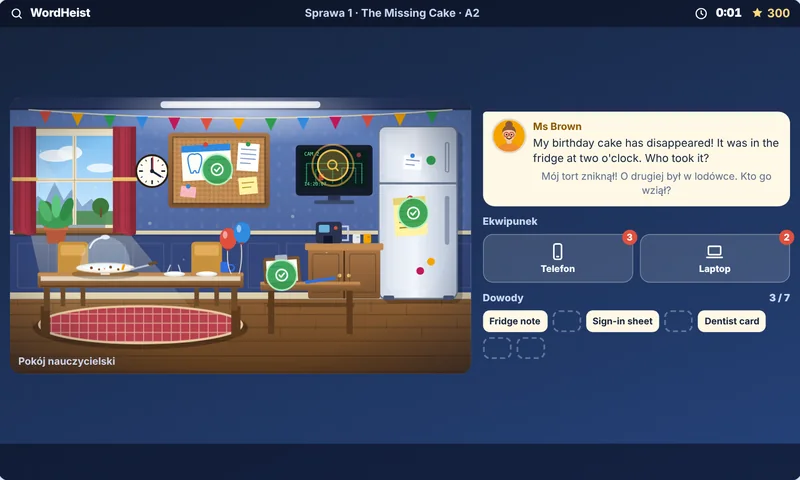
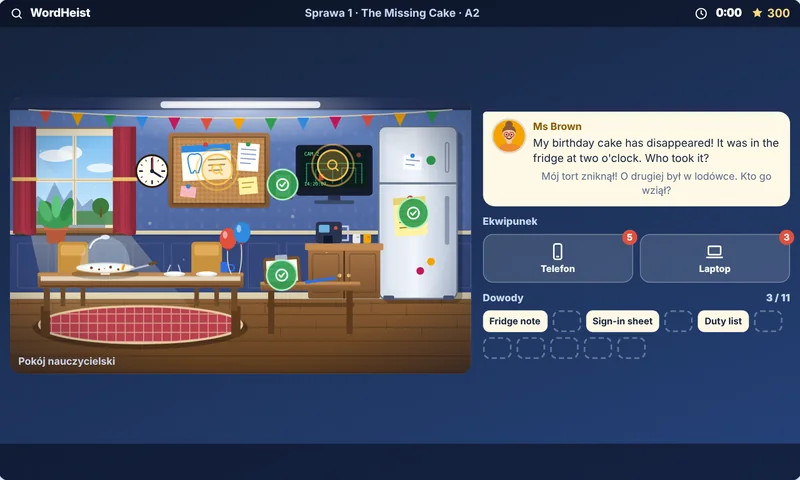
WordHeist: scenariusz 11 dowodów (grafik dyżurów, SMS-y z godzinami, poczta głosowa, e-mail o kluczu), przesłuchanie w 3 etapach z przyznaniem się Toma, nowe zakończenie, wzorcowy czas 10 min
Claude-Session: https://claude.ai/code/session_01MyUW9fQB8JttoV36Ji4mpt

diff --git a/index.html b/index.html
@@ -2548,7 +2548,7 @@ function helpHTML(){
     +'<h4>'+ic('peak')+'WordClimb</h4>'+hpFig('climb','Wspinacz na ścianie i cztery przyciski z odpowiedziami w grze WordClimb','WordClimb: wybierz poprawne tłumaczenie, a wspinacz zrobi krok w górę.')
     +'<ul><li>Trasa ma <b>12 kroków</b> i dwa obozy (po 4. i 8. kroku). Poprawna odpowiedź to krok w górę, a pomyłka to <b>poślizg</b>: uczeń nic nie traci, a słówko trafia do powtórek. Nie ma limitu czasu.</li><li><b>A1</b>: 3 odpowiedzi do wyboru. <b>A2</b>: 4 odpowiedzi. <b>B1</b>: 4 trudniejsze odpowiedzi (podobne formy) oraz zdania z luką.</li><li>Słówka w jednej trasie <b>nie powtarzają się</b>. Słówka z poślizgów pojawiają się u Ciebie w „Najtrudniejszych słówkach”.</li><li>Na koniec uczeń dostaje do 3 gwiazdek (3 = bez poślizgu) i punkty.</li></ul>'
     +'<h4>'+ic('search')+'WordHeist</h4>'+hpFig('heist','Pokój nauczycielski z tropami oraz telefon i laptop w ekwipunku w grze WordHeist','WordHeist: klikaj lupy w pokoju oraz telefon i laptop, żeby zebrać dowody po angielsku.')
-    +'<ul><li>Pierwsza sprawa, <b>The Missing Cake</b> (poziom A2), trwa 5–10 minut: zniknął tort nauczycielki i trzeba wskazać sprawcę.</li><li>Dowody leżą w pokoju (lodówka, kamera, lista obecności, tablica) oraz w <b>ekwipunku</b>: telefon pokazuje SMS-y, a laptop e-maile. Czerwona plakietka to liczba nieprzeczytanych wiadomości. Część wiadomości to mylne tropy.</li><li>Każdy dowód ma pytanie po angielsku. Błąd odejmuje punkty. Uczeń może użyć <b>podpowiedzi</b> lub <b>polskiego tłumaczenia</b> (też kosztuje podpowiedź).</li><li>Po zebraniu 4 dowodów otwiera się tablica: uczeń przesłuchuje podejrzanego (układa pytanie z rozsypanych słów), wybiera osobę i dwa dowody, które ją obciążają.</li><li>Słówka ze sprawy (np. <i>quarter to</i>, <i>half past</i>, <i>borrow</i>) trafiają do powtórek, a pomyłki widzisz w „Najtrudniejszych słówkach”.</li></ul>');
+    +'<ul><li>Pierwsza sprawa, <b>The Missing Cake</b> (poziom A2), trwa 8–12 minut: zniknął tort nauczycielki i trzeba wskazać sprawcę.</li><li>Dowody leżą w pokoju (lodówka, kamera, lista obecności, tablica, grafik dyżurów) oraz w <b>ekwipunku</b>: telefon pokazuje SMS-y, a laptop e-maile. Czerwona plakietka to liczba nieprzeczytanych wiadomości. Część wiadomości to mylne tropy.</li><li>Każdy dowód ma pytanie po angielsku. Błąd odejmuje punkty. Uczeń może użyć <b>podpowiedzi</b> lub <b>polskiego tłumaczenia</b> (też kosztuje podpowiedź).</li><li>Po zebraniu 6 z 11 dowodów otwiera się tablica: uczeń przesłuchuje Toma w trzech etapach (układa pytania z rozsypanych słów, a kolejne etapy wymagają nowych dowodów), wybiera osobę i dwa dowody, które ją obciążają.</li><li>Słówka ze sprawy (np. <i>quarter to</i>, <i>half past</i>, <i>borrow</i>) trafiają do powtórek, a pomyłki widzisz w „Najtrudniejszych słówkach”.</li></ul>');
   const s10=hpSec('punkty',10,'Punkty, rangi, rankingi i trofea',
     '<p>Punkty motywują uczniów do regularnej nauki. Każda gra liczy je trochę inaczej:</p><ul><li><b>WordCraft</b>: 10 pkt za poprawną odpowiedź, 100 za gwiazdkę poziomu, 150 za gwiazdkę w trybie Hard.</li><li><b>WordLinks</b>: do 300 pkt za łamigłówkę (sprint do 900). Im szybciej, tym więcej. Do rankingu liczy się najlepszy wynik dnia w każdym trybie.</li><li><b>WordElf</b>: do 300 (A1), 400 (A2) lub 500 (B1) pkt za całą grę, tym więcej, im szybciej.</li><li><b>WordClimb</b>: do 300 (A1), 400 (A2) lub 500 (B1) pkt za trasę. Liczą się odpowiedzi poprawne od razu i premia za szczyt bez poślizgów. Do rankingu liczy się najlepszy wynik dnia na każdym poziomie.</li><li><b>WordHeist</b>: do 300 pkt za sprawę: 100 za rozwiązanie, +80 bez błędu, +60 bez podpowiedzi, +60 za czas poniżej 6 minut. Do rankingu liczy się najlepszy wynik dnia w każdej sprawie.</li></ul>'
     +'<h4>Rangi</h4><p>Za sumę punktów uczeń awansuje na kolejne rangi (osobno w każdej grze i ogólnie):</p>'+hpRanks()
@@ -3191,26 +3191,35 @@ addEventListener('keydown',e=>{
 /* ===== WORDHEIST: sprawy detektywistyczne po angielsku ===== */
 let HS=null;
 const HSR=[[0,'Stażysta'],[500,'Detektyw'],[2000,'Inspektor'],[5000,'Komisarz'],[12000,'Szef Wydziału'],[25000,'Legenda Wydziału']];
-const HSCASE='missing-cake',HSPAR=360,HSMAX=300;
+const HSCASE='missing-cake',HSPAR=600,HSMAX=300;
 const hsPts=(err,hint,secs)=>100+(err<=0?80:0)+(hint<=0?60:0)+(secs<=HSPAR?60:0);
 const HSS=[
  {k:'tom',n:'Tom',r:'uczeń, 6B',c:'#2358d6',al:'Alibi: biblioteka'},
- {k:'lucy',n:'Lucy',r:'uczennica, 6B',c:'#c2185b',al:'Alibi: dentysta',ex:'I was at the dentist, look at my card.'},
- {k:'green',n:'Mr Green',r:'nauczyciel WF',c:'#00796b',al:'Alibi: sala gimnastyczna',ex:'I was in the gym with twenty students.'},
- {k:'ola',n:'Ola',r:'sprzątaczka',c:'#6a1b9a',al:'Alibi: zielony fartuch',ex:'I never wear a red jacket.'}];
-/* dowody: src = gdzie leży (scena: fridge/cam/sheet/board, ekwipunek: phone/laptop); q=null to mylny trop */
+ {k:'lucy',n:'Lucy',r:'uczennica, 6B',c:'#c2185b',al:'Alibi: dentysta',ex:'I was at the dentist, look at my card.',ev:4},
+ {k:'green',n:'Mr Green',r:'nauczyciel WF',c:'#00796b',al:'Alibi: sala gimnastyczna',ex:'I was in the gym with twenty students.',ev:5},
+ {k:'ola',n:'Ola',r:'sprzątaczka',c:'#6a1b9a',al:'Alibi: zielony fartuch',ex:'I was cleaning the canteen. I never wear a red jacket.',ev:9}];
+/* dowody: src = gdzie leży (scena: fridge/cam/sheet/board/rota, ekwipunek: phone/laptop); brak q = mylny trop */
 const HSI=[
  {id:1,src:'fridge',n:'Fridge note',s:'notatka',k:'note',t:"Happy birthday to me! The cake is in the fridge. Please don't touch it. I'm back at half past three.",pl:'Wszystkiego najlepszego dla mnie! Tort jest w lodówce. Proszę go nie ruszać. Wracam o wpół do czwartej.',q:'What time is Ms Brown back?',qp:'O której wraca pani Brown?',o:['At half past two','At half past three','At a quarter to three',"At three o'clock"],a:1,why:'half past three = 3:30 (wpół do czwartej).',w:['wpół do','half past'],nope:'Notatka mówi tylko, kiedy wróci pani Brown.'},
  {id:2,src:'cam',n:'Camera 2:20',s:'kamera',k:'cam',t:'2:20 p.m. A person in a red jacket goes into the room and comes out with a big box.',pl:'14:20. Osoba w czerwonej kurtce wchodzi do pokoju i wychodzi z dużym pudłem.',q:'What does the person wear and carry?',qp:'Co ma na sobie i niesie ta osoba?',o:['A red jacket and a big box','A red jacket and a small bag','A blue jacket and a big box','A green coat and a small box'],a:0,why:'red jacket = czerwona kurtka, big box = duże pudło.',w:['kurtka','jacket']},
  {id:3,src:'sheet',n:'Sign-in sheet',s:'lista obecności',k:'sheet',t:'Tom Baker? He arrived at a quarter to three.',pl:'Tom Baker? Przyszedł za kwadrans trzecia.',q:'When did Tom really arrive at the library?',qp:'Kiedy Tom naprawdę przyszedł do biblioteki?',o:["At two o'clock",'At a quarter past two','At a quarter to three','At a quarter to four'],a:2,why:'a quarter to three = 2:45 (za kwadrans trzecia). A quarter past two to 2:15.',w:['kwadrans do','quarter to']},
- {id:4,src:'phone',n:"Tom's SMS",s:'SMS Toma',k:'sms',f:'Tom → Lucy',t:"I was in the library from two o'clock!",pl:'Byłem w bibliotece od drugiej!',ctx:'Lista obecności: Tom Baker, a quarter to three.',q:'Is Tom telling the truth?',qp:'Czy Tom mówi prawdę?',o:["Yes, he was there at two o'clock",'No, he arrived at a quarter to three','Yes, he was there at half past three','We cannot say'],a:1,why:'Tom pisze, że był od 2:00, a lista obecności mówi 2:45. Skłamał.',w:['biblioteka','library'],nope:'To tylko wersja Toma. Potrzebujesz dowodu, który ją obala.'},
- {id:5,src:'board',n:'Dentist card',s:'karta dentysty',k:'card',t:'Lucy Adams – Dentist – Thursday, 2:00 p.m.',pl:'Lucy Adams – dentysta – czwartek, 14:00.',q:"Where was Lucy at two o'clock?",qp:'Gdzie była Lucy o drugiej?',o:['At the dentist','At the library','In the gym','At home'],a:0,why:'dentist = dentysta. Lucy ma alibi.',w:['dentysta','dentist'],nope:'Karta dentysty zdejmuje podejrzenie z Lucy, ale nic nie mówi o Tomie.'},
- {id:6,src:'phone',n:"Lucy's SMS",s:'SMS Lucy',k:'sms',f:'Lucy → Tom',t:"You can borrow my red jacket today, it's cold in the gym!",pl:'Możesz pożyczyć moją czerwoną kurtkę, w sali jest zimno!',q:"Who has Lucy's red jacket today?",qp:'Kto ma dziś czerwoną kurtkę Lucy?',o:['Tom','Lucy','Mr Green','Ola'],a:0,why:'borrow = pożyczyć. Lucy pisze do Toma, więc to on pożyczył kurtkę.',w:['pożyczać','borrow']},
- {id:7,src:'laptop',n:'Gym e-mail: 5A',s:'e-mail o sali',k:'mail',f:'School office',sub:'Gym booking for Thursday',t:'The gym is booked for class 5A on Thursday from 2:00 to 3:00 p.m. Please do not use it for other lessons.',pl:'Sala gimnastyczna jest zarezerwowana dla klasy 5A w czwartek od 14:00 do 15:00. Prosimy nie używać jej na inne lekcje.',q:'Who has the gym on Thursday at two o\'clock?',qp:'Kto ma salę gimnastyczną w czwartek o drugiej?',o:['Class 6B','Class 5A','Mr Green and Tom','Nobody'],a:1,why:'booked for class 5A = zarezerwowana dla 5A. Tom jest z 6B, więc kłamał o koszykówce.',w:['sala gimnastyczna','gym']},
- {id:8,src:'phone',n:'Mum SMS',s:'SMS od mamy',k:'sms',f:'Mum → Tom',t:"Don't forget your lunch box, Tom!",pl:'Nie zapomnij pudełka na lunch, Tom!',q:null},
- {id:9,src:'laptop',n:'Canteen e-mail',s:'jadłospis',k:'mail',f:'Canteen',sub:'Lunch menu for next week',t:'Soup on Monday, pizza on Tuesday, fish on Friday.',pl:'Zupa w poniedziałek, pizza we wtorek, ryba w piątek.',q:null}];
-const HSW=[['wpół do','half past'],['kwadrans do','quarter to'],['pożyczać','borrow'],['alibi','alibi'],['dowód','evidence'],['podejrzany','suspect']];
-const HSQ=["Where","were","you","at","two","o'clock?"],HSPROOF=[2,3,6,7],HSEV=HSI.filter(x=>x.q);
+ {id:4,src:'board',n:'Dentist card',s:'karta dentysty',k:'card',t:'Lucy Adams – Dentist – Thursday, 2:00 p.m.',pl:'Lucy Adams – dentysta – czwartek, 14:00.',q:"Where was Lucy at two o'clock?",qp:'Gdzie była Lucy o drugiej?',o:['At the dentist','At the library','In the gym','At home'],a:0,why:'dentist = dentysta. Lucy ma alibi.',w:['dentysta','dentist'],nope:'Karta dentysty zdejmuje podejrzenie z Lucy, ale nic nie mówi o Tomie.'},
+ {id:5,src:'rota',n:'Duty list',s:'grafik dyżurów',k:'rota',t:'Thursday, 2:00 p.m. – Mr Green – gym, class 5A.',pl:'Czwartek, 14:00 – pan Green – sala gimnastyczna, klasa 5A.',q:"Where is Mr Green at two o'clock?",qp:'Gdzie jest pan Green o drugiej?',o:['In the gym','In the library','In the canteen','At the dentist'],a:0,why:'gym = sala gimnastyczna. Pan Green ma alibi.',w:['sala gimnastyczna','gym'],nope:'Grafik zdejmuje podejrzenie z pana Greena, ale nic nie mówi o Tomie.'},
+ {id:6,src:'phone',n:"Tom's SMS",s:'SMS Toma',k:'sms',f:'Tom → Lucy',tm:'4:10 p.m.',t:"I was in the library from two o'clock!",pl:'Byłem w bibliotece od drugiej!',ctx:'Lista obecności: Tom Baker, a quarter to three.',q:'Is Tom telling the truth?',qp:'Czy Tom mówi prawdę?',o:["Yes, he was there at two o'clock",'No, he arrived at a quarter to three','Yes, he was there at half past three','We cannot say'],a:1,why:'Tom pisze, że był od 2:00, a lista obecności mówi 2:45. Skłamał.',w:['biblioteka','library'],nope:'To tylko wersja Toma. Potrzebujesz dowodu, który ją obala.'},
+ {id:7,src:'phone',n:"Lucy's SMS",s:'SMS Lucy',k:'sms',f:'Lucy → Tom',tm:'9:05 a.m.',t:"You can borrow my red jacket today, it's cold in the gym!",pl:'Możesz pożyczyć moją czerwoną kurtkę, w sali jest zimno!',q:"Who has Lucy's red jacket today?",qp:'Kto ma dziś czerwoną kurtkę Lucy?',o:['Tom','Lucy','Mr Green','Ola'],a:0,why:'borrow = pożyczyć. Lucy pisze do Toma, więc to on pożyczył kurtkę.',w:['pożyczać','borrow']},
+ {id:8,src:'phone',n:"Tom's plan",s:'SMS Toma do Bena',k:'sms',f:'Tom → Ben',tm:'2:05 p.m.',t:"Meet me in the art room at half past three. I have a surprise for Ms Brown!",pl:'Spotkajmy się w sali plastycznej o wpół do czwartej. Mam niespodziankę dla pani Brown!',q:'Where does Tom want to meet Ben?',qp:'Gdzie Tom chce się spotkać z Benem?',o:['In the art room','In the library','In the gym','In the canteen'],a:0,why:'art room = sala plastyczna. Tom szykuje niespodziankę dla pani Brown.',w:['sala plastyczna','art room']},
+ {id:9,src:'phone',n:"Ola's voicemail",s:'poczta głosowa Oli',k:'voice',f:'Ola → Office',tm:'3:00 p.m.',t:"I cleaned the canteen from two to three o'clock. The floor was very wet!",pl:'Sprzątałam stołówkę od drugiej do trzeciej. Podłoga była bardzo mokra!',q:'What did Ola do from two to three?',qp:'Co robiła Ola od drugiej do trzeciej?',o:['She cleaned the canteen','She cooked lunch','She watched the cake','She ate in the gym'],a:0,why:'cleaned the canteen = sprzątała stołówkę. Ola ma alibi.',w:['sprzątać','clean'],nope:'Ola była w stołówce, więc to nie ona. Ta wiadomość nie obciąża Toma.'},
+ {id:10,src:'laptop',n:'Gym e-mail: 5A',s:'e-mail o sali',k:'mail',f:'School office',sub:'Gym booking for Thursday',t:'The gym is booked for class 5A on Thursday from 2:00 to 3:00 p.m. Please do not use it for other lessons.',pl:'Sala gimnastyczna jest zarezerwowana dla klasy 5A w czwartek od 14:00 do 15:00. Prosimy nie używać jej na inne lekcje.',q:'Who has the gym on Thursday at two o\'clock?',qp:'Kto ma salę gimnastyczną w czwartek o drugiej?',o:['Class 6B','Class 5A','Mr Green and Tom','Nobody'],a:1,why:'booked for class 5A = zarezerwowana dla 5A. Tom jest z 6B, więc kłamał o koszykówce.',w:['sala gimnastyczna','gym']},
+ {id:11,src:'laptop',n:'Art room key',s:'e-mail o kluczu',k:'mail',f:'Caretaker',sub:'Art room key',t:'Tom Baker took the art room key at ten past two on Thursday. Please bring it back.',pl:'Tom Baker wziął klucz do sali plastycznej w czwartek o 14:10. Prosimy o zwrot.',q:'Who took the art room key?',qp:'Kto wziął klucz do sali plastycznej?',o:['Tom Baker','Lucy Adams','Mr Green','Ola'],a:0,why:'took the key = wziął klucz. Tom miał klucz do sali, w której stoi tort.',w:['klucz','key']},
+ {id:12,src:'phone',n:'Mum SMS',s:'SMS od mamy',k:'sms',f:'Mum → Tom',tm:'12:30 p.m.',t:"Don't forget your lunch box, Tom!",pl:'Nie zapomnij pudełka na lunch, Tom!',q:null},
+ {id:13,src:'laptop',n:'Canteen e-mail',s:'jadłospis',k:'mail',f:'Canteen',sub:'Lunch menu for next week',t:'Soup on Monday, pizza on Tuesday, fish on Friday.',pl:'Zupa w poniedziałek, pizza we wtorek, ryba w piątek.',q:null}];
+const HSW=[['wpół do','half past'],['kwadrans do','quarter to'],['pożyczać','borrow'],['alibi','alibi'],['dowód','evidence'],['podejrzany','suspect'],['klucz','key'],['sala plastyczna','art room'],['sprzątać','clean']];
+/* przesłuchanie: 3 etapy, każdy to pytanie z rozsypanych słów; need = dowody potrzebne do etapu */
+const HSQS=[
+ {w:["Where","were","you","at","two","o'clock?"],need:[],r:"I was in the library."},
+ {w:["Why","did","you","arrive","at","a","quarter","to","three?"],need:[3],r:"OK, I was in the gym. I played basketball."},
+ {w:["Why","do","you","have","the","art","room","key?"],need:[10,11],r:"OK, OK! I took the cake. It was a surprise for Ms Brown!"}];
+const HSPROOF=[2,3,7,8,10,11],HSEV=HSI.filter(x=>x.q);
 const HSAV={
  tom:{bg:'#2358d6',skin:'#f1c7a0',top:'#3f7de0',hair:'<path d="M13.5 20c-1-9 5-13 10.5-13s11.5 4 10.5 13c-2-3-4-5-6-5.5-3 2-8 2-10 0-2 .5-3.5 2.5-5 5.5z" fill="#5a3a1e"/><path d="M19 8l2-3 2 3M26 8l3-2-.5 3.5" stroke="#5a3a1e" stroke-width="2" fill="none" stroke-linecap="round"/>'},
  lucy:{bg:'#c2185b',skin:'#f6d0b0',top:'#f48fb1',back:'<path d="M12 20c0-9 5-13 12-13s12 4 12 13v19H12z" fill="#2b1a14"/>',hair:'<path d="M14 19c2-7 7-9 10-9s8 2 10 9c-3-3-6-4-10-4s-7 1-10 4z" fill="#2b1a14"/>'},
@@ -3242,30 +3251,34 @@ function hsHint(){
   if(!HS.go||HS.over)return;
   if(HS.v==='item'){const it=hsIt(HS.cur);if(!it||!it.q||HS.done[it.id])return;const h=HS.hid[it.id]||(HS.hid[it.id]=[]);const c=it.o.map((_,k)=>k).filter(k=>k!==it.a&&!h.includes(k));if(c.length<2)return;h.push(elShuf(c)[0]);HS.hint++;HS.msg='Jedna zła odpowiedź zniknęła.'}
   else if(HS.v==='scene'){const n=HSEV.find(x=>!HS.done[x.id]);if(!n)return;HS.glow=n.src;HS.hint++;HS.msg='Zajrzyj tam, gdzie świeci.'}
-  else if(HS.v==='board'){HS.hint++;HS.msg=HS.interr?'Szukaj dowodów na kurtkę, kamerę, bibliotekę i salę.':'Najpierw przesłuchaj podejrzanego.'}
+  else if(HS.v==='board'){HS.hint++;HS.msg=HS.interr?'Szukaj dowodów na kurtkę, kamerę, bibliotekę, salę i klucz.':'Najpierw przesłuchaj podejrzanego.'}
   else return;
   renderHeist()
 }
-function hsBoard(){if(!HS.go||HS.over||hsSolved()<4)return;HS.v='board';HS.msg='';HS.glow='';renderHeist()}
+function hsBoard(){if(!HS.go||HS.over||hsSolved()<6)return;HS.v='board';HS.msg='';HS.glow='';renderHeist()}
 function hsSus(i){if(HS.v!=='board')return;HS.sus=HS.sus===i?-1:i;renderHeist()}
 function hsSel(id){
   if(HS.v!=='board')return;const i=HS.sel.indexOf(id);
   if(i>=0)HS.sel.splice(i,1);else if(HS.sel.length<2)HS.sel.push(id);else{HS.msg='Wybierz tylko 2 dowody. Odznacz jeden.'}
   renderHeist()
 }
-function hsAsk(){if(!HS.go||HS.over)return;HS.ask={w:elShuf(HSQ.map((_,i)=>i)),pick:[]};HS.v='ask';HS.msg='';renderHeist()}
+function hsAsk(){
+  if(!HS.go||HS.over)return;const n=HS.interr,q=HSQS[Math.min(n,2)];
+  if(n<3){const m=q.need.filter(id=>!HS.done[id]);if(m.length){HS.msg='Najpierw zbierz dowód: '+m.map(id=>hsIt(id).n).join(', ')+'.';return renderHeist()}}
+  HS.ask={s:n,w:elShuf(q.w.map((_,i)=>i)),pick:[]};HS.v='ask';HS.msg='';renderHeist()
+}
 function hsAskTap(i){
-  const a=HS.ask;if(HS.v!=='ask'||!a||HS.interr||a.pick.includes(i))return;
-  if(i===a.pick.length){a.pick.push(i);cnFx('ok');if(a.pick.length===HSQ.length){HS.interr=1;HS.msg='Tom odpowiada…'}}
+  const a=HS.ask,q=a&&HSQS[Math.min(a.s,2)];if(HS.v!=='ask'||!a||a.s!==HS.interr||!q||a.pick.length>=q.w.length||a.pick.includes(i))return;
+  if(i===a.pick.length){a.pick.push(i);cnFx('ok');if(a.pick.length===q.w.length){HS.interr++;HS.msg=HS.interr>=3?'Tom się przyznał!':'Tom zmienił wersję. Zbierz kolejne dowody.'}}
   else{HS.err++;HS.msg='Zły szyk. Zacznij od słowa pytającego.';cnFx('bad')}
   renderHeist()
 }
 function hsAccuse(){
   if(!HS.go||HS.over||HS.v!=='board')return;
-  if(!HS.interr){HS.msg='Najpierw przesłuchaj podejrzanego.';return renderHeist()}
+  if(HS.interr<3){HS.msg='Najpierw przesłuchaj Toma do końca ('+HS.interr+'/3).';return renderHeist()}
   if(HS.sus<0||HS.sel.length!==2){HS.msg='Wybierz podejrzanego i 2 dowody.';return renderHeist()}
   const s=HSS[HS.sus];
-  if(s.k!=='tom'){HS.err++;HS.msg=s.n+': „'+s.ex+'” To nie ten podejrzany.';HS.sus=-1;HS.sel=[];cnFx('bad');return renderHeist()}
+  if(s.k!=='tom'){HS.err++;HS.msg=s.n+': „'+s.ex+'” To nie ten podejrzany. '+(HS.done[s.ev]?'Sprawdź dowód: '+hsIt(s.ev).n+'.':'Poszukaj dowodu, który to potwierdza.');HS.sus=-1;HS.sel=[];cnFx('bad');return renderHeist()}
   const bad=HS.sel.find(id=>!HSPROOF.includes(id));
   if(bad){HS.err++;HS.msg=hsIt(bad).nope;HS.sel=[];cnFx('bad');return renderHeist()}
   hsFinish()
@@ -3360,8 +3373,8 @@ ${Array.from({length:12},(_,i)=>`<path d="M378 ${70+i*4}h88" stroke="#000" strok
 <rect x="384" y="236" width="40" height="4" rx="2" fill="#2f6fe0" transform="rotate(-8 404 238)"/></g>
 <rect width="600" height="360" fill="url(#hsg-vg)"/>
 ${Array.from({length:9},(_,i)=>`<circle cx="${40+i*62+(i%3)*9}" cy="${70+((i*47)%150)}" r="${1.2+(i%3)*.5}" fill="#fff9d6" opacity=".35"/>`).join('')}
-</svg>`;
-const HSSP={fridge:[87.5,42,'lodówka'],cam:[70,24.5,'kamera'],sheet:[59,64.5,'lista obecności'],board:[45,26,'tablica ogłoszeń']};
+<g class="hs-clip"><rect x="343" y="97" width="25" height="35" rx="2" fill="#8a5a3a" stroke="#5a3a1e" stroke-width="1"/><rect x="346" y="101" width="19" height="28" fill="#fffdf4"/><rect x="351" y="94" width="9" height="6" rx="1.5" fill="#9aa5b8" stroke="#5b6b8a" stroke-width=".6"/><path d="M349 108h13M349 113h13M349 118h9M349 123h12" stroke="#7a8aa6" stroke-width="1.2" stroke-linecap="round"/><circle cx="347.5" cy="108" r="1.2" fill="#2e9d4f"/></g></svg>`;
+const HSSP={fridge:[87.5,42,'lodówka'],cam:[70,24.5,'kamera'],sheet:[59,64.5,'lista obecności'],board:[45,26,'tablica ogłoszeń'],rota:[59.2,31.5,'grafik dyżurów']};
 function hsScene(){
   const sp=Object.keys(HSSP).map(k=>{const it=HSI.find(x=>x.src===k),d=HS.done[it.id];return'<button class="hs-spot'+(d?' ok':'')+(HS.glow===k?' glow':'')+'" style="left:'+HSSP[k][0]+'%;top:'+HSSP[k][1]+'%" '+(d?'':'')+'onclick="hsOpen('+it.id+')" aria-label="'+HSSP[k][2]+(d?' (zbadane)':'')+'">'+ic(d?'check':'search')+'</button>'}).join('');
   const unread=a=>HSI.filter(x=>x.src===a&&!HS.seen[x.id]).length;
@@ -3374,7 +3387,9 @@ function hsDoc(it){
   if(it.k==='cam')return'<div class="hs-cam"><span>● REC · CAM 2 · staff room</span><p>'+esc(it.t)+'</p></div>';
   if(it.k==='card')return'<div class="hs-note card">'+esc(it.t)+'</div>';
   if(it.k==='sheet')return'<div class="hs-sheet"><b>Library sign-in sheet</b><table><tr><th>NAME</th><th>ARRIVED</th></tr><tr><td>Mia Clark</td><td>ten past two</td></tr><tr class="hl"><td>Tom Baker</td><td>a quarter to three</td></tr><tr><td>Ben Hall</td><td>half past three</td></tr></table><button onclick="hsSay()">'+ic('volume')+'Posłuchaj bibliotekarki</button><p>„'+esc(it.t)+'”</p></div>';
-  if(it.k==='sms')return'<div class="hs-sms"><small>'+esc(it.f)+'</small><div>'+esc(it.t)+'</div></div>';
+  if(it.k==='rota')return'<div class="hs-sheet"><b>Teachers\' duty list</b><p>'+esc(it.t)+'</p></div>';
+  if(it.k==='voice')return'<div class="hs-sms"><small>'+ic('volume')+' '+esc(it.f)+' · '+esc(it.tm)+'</small><div>'+esc(it.t)+'</div><br><button class="hs-link" onclick="hsSay()">'+ic('volume')+'Posłuchaj</button></div>';
+  if(it.k==='sms')return'<div class="hs-sms"><small>'+esc(it.f)+(it.tm?' · '+esc(it.tm):'')+'</small><div>'+esc(it.t)+'</div></div>';
   return'<div class="hs-mail"><small>From: '+esc(it.f)+'</small><b>'+esc(it.sub)+'</b><p>'+esc(it.t)+'</p></div>'
 }
 function hsItem(){
@@ -3392,16 +3407,18 @@ function hsAppH(){
 function hsBoardH(){
   const sus=HSS.map((s,i)=>'<button class="hs-sus'+(HS.sus===i?' on':'')+'" onclick="hsSus('+i+')"><span>'+hsAv(s.k,36)+'</span><b>'+s.n+'</b><small>'+s.r+'</small><em>'+s.al+'</em></button>').join('');
   const chips=HSEV.filter(x=>HS.done[x.id]).map(x=>'<button class="hs-ch'+(HS.sel.includes(x.id)?' on':'')+'" onclick="hsSel('+x.id+')">'+(HS.sel.includes(x.id)?ic('check'):'')+esc(x.n)+'</button>').join('');
-  return'<p class="hs-lead">Kto wziął tort? Wybierz podejrzanego i dwa dowody, które go obciążają.</p><div class="hs-suss">'+sus+'</div><h5>Dowody przeciw'+(HS.sus>=0?': '+HSS[HS.sus].n:'')+' (wybierz 2)</h5><div class="hs-chs">'+chips+'</div><p class="hs-st">'+ic(HS.interr?'check':'alert',HS.interr?'ok':'warn')+(HS.interr?'Podejrzany przesłuchany.':'Najpierw przesłuchaj podejrzanego (przycisk poniżej).')+'</p>'
+  return'<p class="hs-lead">Kto wziął tort? Wybierz podejrzanego i dwa dowody, które go obciążają.</p><div class="hs-suss">'+sus+'</div><h5>Dowody przeciw'+(HS.sus>=0?': '+HSS[HS.sus].n:'')+' (wybierz 2)</h5><div class="hs-chs">'+chips+'</div><p class="hs-st">'+ic(HS.interr>=3?'check':'alert',HS.interr>=3?'ok':'warn')+(HS.interr>=3?'Tom przesłuchany do końca.':'Przesłuchanie Toma: '+HS.interr+'/3 (przycisk poniżej).')+'</p>'
 }
 function hsAskH(){
-  const a=HS.ask,sent=a.pick.map(i=>HSQ[i]).join(' ');
-  let h='<p class="hs-lead">Ułóż pytanie do Toma z rozsypanych słów.</p><div class="hs-sent">'+esc(sent)+'</div><div class="hs-words">'+a.w.map(i=>'<button '+(a.pick.includes(i)||HS.interr?'disabled ':'')+'onclick="hsAskTap('+i+')">'+esc(HSQ[i])+'</button>').join('')+'</div>';
-  if(HS.interr)h+='<div class="hs-dlg"><p>'+hsAv('tom',30)+'<span><b>Tom:</b> I was in the library.</span></p><p class="you">Sign-in sheet: a quarter to three…</p><p>'+hsAv('tom',30)+'<span><b>Tom:</b> OK, I was in the gym. I played basketball.</span></p><small>Tom zmienił wersję. Wróć na tablicę i wybierz dowody, które obalają obie.</small></div>';
+  const a=HS.ask,q=HSQS[Math.min(a.s,2)],full=a.pick.length>=q.w.length,sent=a.pick.map(i=>q.w[i]).join(' ');
+  let h='<p class="hs-lead">'+(full&&HS.interr>=3?'Przesłuchanie zakończone.':'Ułóż pytanie do Toma z rozsypanych słów ('+(a.s+1)+'/3).')+'</p>';
+  if(!full)h+='<div class="hs-sent">'+esc(sent)+'</div><div class="hs-words">'+a.w.map(i=>'<button '+(a.pick.includes(i)?'disabled ':'')+'onclick="hsAskTap('+i+')">'+esc(q.w[i])+'</button>').join('')+'</div>';
+  h+='<div class="hs-dlg">'+HSQS.slice(0,HS.interr).map(x=>'<p class="you">'+esc(x.w.join(' '))+'</p><p>'+hsAv('tom',30)+'<span><b>Tom:</b> '+esc(x.r)+'</span></p>').join('')+'</div>';
+  if(HS.interr&&HS.interr<3)h+='<small class="hs-ctx">Tom zmienił wersję. Wróć na tablicę i zbierz dowody, które obalają obie.</small>';
   return h
 }
 function hsWin(){
-  return'<h3>Sprawa rozwiązana!</h3><p class="hs-fin">To był Tom. Chciał udekorować tort jako niespodziankę. Tort stoi w sali plastycznej z napisem „Happy Birthday, Ms Brown!”.</p><div class="hs-stars">'+[1,2,3].map(i=>ic('star','f '+(i<=HS.stars?'pt':'dim'))).join('')+'</div><div class="hs-tiles"><div><b>'+hsFmt(HS.secs)+'</b><small>czas (wzorcowy 6:00)</small></div><div><b>'+HS.err+'</b><small>błędy</small></div><div><b>'+HS.hint+'</b><small>podpowiedzi</small></div></div><div class="hs-pts">'+ic('star','f pt')+'<span>Punkty</span><b>'+HS.pts+'</b></div><small class="hs-gain">'+hsAwardHtml()+'</small><div class="hs-words2"><b>Słówka ze sprawy (trafiły do powtórek):</b>'+HSW.map(w=>'<span>'+esc(w[1])+' = '+esc(w[0])+'</span>').join('')+'</div>'
+  return'<h3>Sprawa rozwiązana!</h3><p class="hs-fin">To był Tom. Chciał udekorować tort jako niespodziankę. Tort stoi w sali plastycznej z napisem „Happy Birthday, Ms Brown!”.</p><div class="hs-dlg"><p>'+hsAv('tom',30)+'<span><b>Tom:</b> I took the cake. It was a surprise for your birthday!</span></p></div><div class="hs-sms"><small>Ms Brown → Ty</small><div>Thank you, detective! The cake is in the art room. Come and have a piece!</div></div><div class="hs-stars">'+[1,2,3].map(i=>ic('star','f '+(i<=HS.stars?'pt':'dim'))).join('')+'</div><div class="hs-tiles"><div><b>'+hsFmt(HS.secs)+'</b><small>czas (wzorcowy 10:00)</small></div><div><b>'+HS.err+'</b><small>błędy</small></div><div><b>'+HS.hint+'</b><small>podpowiedzi</small></div></div><div class="hs-pts">'+ic('star','f pt')+'<span>Punkty</span><b>'+HS.pts+'</b></div><small class="hs-gain">'+hsAwardHtml()+'</small><div class="hs-words2"><b>Słówka ze sprawy (trafiły do powtórek):</b>'+HSW.map(w=>'<span>'+esc(w[1])+' = '+esc(w[0])+'</span>').join('')+'</div>'
 }
 function renderHeist(){
   const root=$('v-heist');if(!root)return;if(!HS)hsNew();
@@ -3409,7 +3426,7 @@ function renderHeist(){
   const head='<div class="cn-top"><span></span><button class="cn-snd" onclick="hsSnd()" aria-label="Dźwięk" title="Dźwięk">'+ic(snd?'volume':'mute')+'</button></div>';
   const hud='<div class="gs-hud"><span class="gs-t">'+ic('search')+'WordHeist</span><span class="gs-m">Sprawa 1 · The Missing Cake · A2</span><span class="gs-s">'+ic('clock')+'<b id="hs-time">'+hsFmt(sec)+'</b><i title="Tyle punktów dostaniesz, jeśli skończysz teraz. Maleje z błędami, podpowiedziami i czasem.">'+ic('star','f pt')+'<span id="hs-pts">'+est+'</span></i></span></div>';
   let ov='',body='';
-  if(!HS.go)ov='<div class="hs-ov mid"><div class="hs-bub big">'+hsAv('brown',52)+'<div><b>Ms Brown</b>My birthday cake has disappeared! It was in the fridge at two o\'clock. Who took it?<small>Mój tort urodzinowy zniknął! O drugiej był w lodówce. Kto go wziął?</small></div></div><p>Przeszukaj pokój nauczycielski, telefon i laptop. Czytaj po angielsku, rozwiązuj zagadki, przesłuchaj podejrzanego i wskaż sprawcę. Błąd nie kończy gry, ale odejmuje punkty. Wzorcowy czas: 6 minut.</p><button class="hs-go" onclick="hsStart()">Zacznij sprawę</button></div>';
+  if(!HS.go)ov='<div class="hs-ov mid"><div class="hs-bub big">'+hsAv('brown',52)+'<div><b>Ms Brown</b>My birthday cake has disappeared! It was in the fridge at two o\'clock. Who took it?<small>Mój tort urodzinowy zniknął! O drugiej był w lodówce. Kto go wziął?</small></div></div><p>Przeszukaj pokój nauczycielski, telefon i laptop. Czytaj po angielsku, rozwiązuj zagadki, przesłuchaj podejrzanego i wskaż sprawcę. Błąd nie kończy gry, ale odejmuje punkty. Wzorcowy czas: 10 minut.</p><button class="hs-go" onclick="hsStart()">Zacznij sprawę</button></div>';
   else{
     body=hsScene();
     if(v==='item')ov='<div class="hs-ov">'+hsItem()+'</div>';
@@ -3422,9 +3439,9 @@ function renderHeist(){
   let bar;
   if(!HS.go)bar='';
   else if(v==='win')bar='<button class="pri" onclick="hsNewR()">Zagraj jeszcze raz</button>';
-  else if(sc)bar='<button onclick="hsHint()" '+(canHint?'':'disabled ')+'>'+ic('bulb')+'Podpowiedź</button><button class="pri" onclick="hsBoard()" '+(hsSolved()>=4?'':'disabled ')+'>'+(hsSolved()>=4?'Tablica dowodów':'Dowody '+hsSolved()+'/4')+'</button>';
+  else if(sc)bar='<button onclick="hsHint()" '+(canHint?'':'disabled ')+'>'+ic('bulb')+'Podpowiedź</button><button class="pri" onclick="hsBoard()" '+(hsSolved()>=6?'':'disabled ')+'>'+(hsSolved()>=6?'Tablica dowodów':'Dowody '+hsSolved()+'/6')+'</button>';
   else if(v==='item')bar='<button onclick="hsHint()" '+(canHint?'':'disabled ')+'>'+ic('bulb')+'Podpowiedź</button><button '+(it&&HS.done[it.id]||it&&!it.q?'class="pri" ':'')+'onclick="hsBack()">'+(it&&(HS.done[it.id]||!it.q)?'Dalej':'Zamknij')+'</button>';
-  else if(v==='board')bar='<button onclick="hsAsk()">Przesłuchaj Toma</button><button class="pri" onclick="hsAccuse()">Oskarż'+(HS.sus>=0?': '+HSS[HS.sus].n:'')+'</button><button onclick="hsHint()">'+ic('bulb')+'</button><button onclick="hsBack()">Wróć</button>';
+  else if(v==='board')bar='<button onclick="hsAsk()">Przesłuchaj Toma ('+HS.interr+'/3)</button><button class="pri" onclick="hsAccuse()">Oskarż'+(HS.sus>=0?': '+HSS[HS.sus].n:'')+'</button><button onclick="hsHint()">'+ic('bulb')+'</button><button onclick="hsBack()">Wróć</button>';
   else bar='<button class="pri" onclick="'+(v==='ask'?"HS.v='board';renderHeist()":'hsBack()')+'">'+(v==='ask'?'Wróć do tablicy':'Zamknij')+'</button>';
   root.innerHTML=head+'<div class="gstage hs-stage'+(HS.over?' over':'')+'">'+hud+'<div class="gs-body">'+body+ov+'</div><div class="gs-foot"><span class="cn-info"></span><div class="cn-msg" role="status" aria-live="polite">'+esc(HS.msg)+'</div></div>'+(bar?'<div class="gbar">'+bar+'</div>':'')+'</div><p class="gtips">Cel: wskaż sprawcę i dowody. Klikaj lupy w pokoju oraz telefon i laptop. W zagadkach klawisze 1–4 też działają.</p>'+((!HS.go||HS.over)?wbHtml('hs'):'')
 }

diff --git a/tests/heist_test.py b/tests/heist_test.py
@@ -11,46 +11,50 @@ with sync_playwright() as pw:
     res['nakladka startowa']=pg.locator('.hs-go').count()==1 and pg.evaluate("HS.go")==0
     res['ranking przed startem']=pg.locator('#v-heist .cn-lbp').count()==1
     pg.evaluate("hsStart()");pg.wait_for_timeout(100)
-    res['4 lupy w scenie']=pg.locator('.hs-spot').count()==4
-    res['telefon i laptop z plakietkami']=pg.evaluate("[...document.querySelectorAll('.hs-inv em')].map(e=>e.textContent)")==['3','2']
+    res['5 lup w scenie']=pg.locator('.hs-spot').count()==5
+    res['telefon i laptop z plakietkami']=pg.evaluate("[...document.querySelectorAll('.hs-inv em')].map(e=>e.textContent)")==['5','3']
     res['tablica zablokowana']=pg.locator('.gbar .pri').first.is_disabled()
-    # zla odpowiedz w zagadce = blad
     pg.evaluate("hsOpen(1)");pg.wait_for_timeout(50)
     res['dowod 1 ma 4 opcje']=pg.locator('.hs-opts button').count()==4
     pg.evaluate("hsPick(0)");res['blad liczy sie']=pg.evaluate("HS.err")==1 and not pg.evaluate("!!HS.done[1]")
     pg.evaluate("hsHint()");res['podpowiedz usuwa opcje']=pg.locator('.hs-opts button').count()==3 and pg.evaluate("HS.hint")==1
     pg.evaluate("hsPick(HSI[0].a)");res['poprawna zapisuje']=pg.evaluate("!!HS.done[1]")
     pg.evaluate("hsBack()")
-    # telefon: 3 SMS-y, laptop: 2 maile
-    pg.evaluate("hsApp('phone')");res['telefon: 3 SMS']=pg.locator('.hs-app.ph .hs-row').count()==3
-    pg.evaluate("hsOpen(8)");res['mylny trop bez pytania']=pg.locator('.hs-opts').count()==0 and 'nie jest trop' in pg.inner_text('.hs-ov')
+    pg.evaluate("hsApp('phone')");res['telefon: 5 SMS']=pg.locator('.hs-app.ph .hs-row').count()==5
+    pg.evaluate("hsOpen(12)");res['mylny trop bez pytania']=pg.locator('.hs-opts').count()==0 and 'nie jest trop' in pg.inner_text('.hs-ov')
     pg.evaluate("hsBack()");res['powrot z SMS do telefonu']=pg.evaluate("HS.v")=='app'
-    pg.evaluate("hsOpen(4);hsPl()");res['polski kosztuje podpowiedz']=pg.evaluate("HS.hint")==2
-    pg.evaluate("hsPick(HSI[3].a)")
-    pg.evaluate("hsBack();hsOpen(6);hsPick(HSI[5].a);hsBack();hsBack()")
-    res['plakietka telefonu spadla']=pg.evaluate("[...document.querySelectorAll('.hs-inv em')].map(e=>e.textContent)")==['2']
-    pg.evaluate("hsApp('laptop');hsOpen(7);hsPick(HSI[6].a);hsBack();hsBack()")
-    res['laptop: e-mail zapisany']=pg.evaluate("!!HS.done[7]")
-    for i in (2,3,5):pg.evaluate("hsOpen(%d);hsPick(hsIt(%d).a);hsBack()"%(i,i))
-    res['7 dowodow']=pg.evaluate("hsSolved()")==7
-    res['tablica odblokowana']=not pg.locator('.gbar .pri').first.is_disabled()
+    pg.evaluate("hsOpen(6);hsPl()");res['polski kosztuje podpowiedz']=pg.evaluate("HS.hint")==2
+    res['SMS ma godzine']='4:10' in pg.inner_text('.hs-ov')
+    pg.evaluate("hsPick(HSI[5].a)")
+    pg.evaluate("hsBack();hsOpen(9);hsPick(HSI[8].a);hsBack();hsBack()")
+    res['plakietka telefonu spadla']=pg.evaluate("[...document.querySelectorAll('.hs-inv em')].map(e=>e.textContent)")==['2','3']
+    pg.evaluate("hsApp('laptop');hsOpen(10);hsPick(hsIt(10).a);hsBack();hsBack()")
+    res['laptop: e-mail zapisany']=pg.evaluate("!!HS.done[10]")
+    res['tablica nadal zablokowana (4/6)']=pg.evaluate("hsSolved()")==4 and pg.locator('.gbar .pri').first.is_disabled()
+    for i in (2,3):pg.evaluate("hsOpen(%d);hsPick(hsIt(%d).a);hsBack()"%(i,i))
+    res['tablica odblokowana przy 6']=pg.evaluate("hsSolved()")==6 and not pg.locator('.gbar .pri').first.is_disabled()
     pg.evaluate("hsBoard()")
-    res['tablica: 4 podejrzanych, 7 dowodow']=pg.locator('.hs-sus').count()==4 and pg.locator('.hs-ch').count()==7
-    # bez przesluchania nie mozna oskarzyc
+    res['tablica: 4 podejrzanych, 6 dowodow']=pg.locator('.hs-sus').count()==4 and pg.locator('.hs-ch').count()==6
     pg.evaluate("hsSus(0);hsSel(2);hsSel(3);hsAccuse()");res['oskarzenie bez przesluchania odrzucone']=pg.evaluate("HS.over")==0
-    # przesluchanie: zly szyk = blad
+    # etap 2 wymaga dowodu 3 (jest), etap 3 wymaga 10 i 11 (brak 11)
     pg.evaluate("hsAsk()");e0=pg.evaluate("HS.err");pg.evaluate("hsAskTap(HS.ask.w.find(i=>i!==0))");res['zly szyk = blad']=pg.evaluate("HS.err")==e0+1
     for i in range(6):pg.evaluate("hsAskTap(%d)"%i)
-    res['przesluchanie zakonczone']=pg.evaluate("HS.interr")==1 and 'basketball' in pg.inner_text('.hs-ov')
-    pg.evaluate("HS.v='board';renderHeist()")
-    # zly podejrzany
+    res['etap 1: Tom klamie o bibliotece']=pg.evaluate("HS.interr")==1 and 'library' in pg.inner_text('.hs-ov')
+    pg.evaluate("HS.v='board';renderHeist();hsAsk();for(let i=0;i<9;i++)hsAskTap(i)");pg.wait_for_timeout(50)
+    res['etap 2: Tom zmienia wersje na sale']=pg.evaluate("HS.interr")==2 and 'basketball' in pg.inner_text('.hs-ov')
+    pg.evaluate("HS.v='board';renderHeist();hsAsk()")
+    res['etap 3 zablokowany bez klucza']=pg.evaluate("HS.v")=='board' and 'Art room key' in pg.evaluate("HS.msg")
+    pg.evaluate("hsBack();hsApp('laptop');hsOpen(11);hsPick(hsIt(11).a);hsBack();hsBack();hsBoard();hsAsk();for(let i=0;i<8;i++)hsAskTap(i)");pg.wait_for_timeout(50)
+    res['etap 3: przyznanie sie']=pg.evaluate("HS.interr")==3 and 'cake' in pg.inner_text('.hs-ov')
+    pg.evaluate("hsBack()");pg.evaluate("for(const i of [4,5,7,8,9])if(!HS.done[i])HS.done[i]=1;HS.v='board';renderHeist()")
     e1=pg.evaluate("HS.err");pg.evaluate("HS.sus=1;HS.sel=[2,3];hsAccuse()")
-    res['Lucy: blad i wyjasnienie']=pg.evaluate("HS.err")==e1+1 and 'dentist' in pg.evaluate("HS.msg") and pg.evaluate("HS.over")==0
-    # zly dowod
-    e2=pg.evaluate("HS.err");pg.evaluate("HS.sus=0;hsSel(5);hsSel(3);hsAccuse()")
+    res['Lucy: blad i wyjasnienie']=pg.evaluate("HS.err")==e1+1 and 'dentist' in pg.evaluate("HS.msg") and 'Dentist card' in pg.evaluate("HS.msg") and pg.evaluate("HS.over")==0
+    pg.evaluate("HS.sus=2;HS.sel=[2,3];hsAccuse()");res['Green: dowod w komunikacie']='Duty list' in pg.evaluate("HS.msg")
+    pg.evaluate("HS.sus=3;HS.sel=[2,3];hsAccuse()");res['Ola: dowod w komunikacie']="Ola's voicemail" in pg.evaluate("HS.msg")
+    e2=pg.evaluate("HS.err");pg.evaluate("HS.sus=0;HS.sel=[];hsSel(6);hsSel(3);hsAccuse()")
     res['zly dowod: blad']=pg.evaluate("HS.err")==e2+1 and pg.evaluate("HS.over")==0
-    pg.evaluate("HS.sus=0;hsSel(7);hsSel(2);hsAccuse()");pg.wait_for_timeout(300)
-    res['werdykt']=pg.evaluate("HS.over")==1 and 'Sprawa rozwiązana' in pg.inner_text('#v-heist')
+    pg.evaluate("HS.sus=0;HS.sel=[];hsSel(11);hsSel(2);hsAccuse()");pg.wait_for_timeout(300)
+    res['werdykt']=pg.evaluate("HS.over")==1 and 'Sprawa rozwiązana' in pg.inner_text('#v-heist') and 'Thank you, detective' in pg.inner_html('#v-heist')
     res['punkty wg wzoru']=pg.evaluate("HS.pts")==pg.evaluate("hsPts(HS.err,HS.hint,HS.secs)") and pg.evaluate("HS.pts")>=100
     res['1 gwiazdka przy wielu bledach']=pg.evaluate("HS.stars")==1
     res['RPC award z parametrami']=pg.evaluate("CALLS.filter(c=>c[0]==='heist_award'&&c[1].p_case==='missing-cake'&&c[1].p_errors===HS.err&&c[1].p_hints===HS.hint).length")==1
@@ -61,10 +65,10 @@ with sync_playwright() as pw:
     res['ranking po werdykcie']=pg.locator('#v-heist .cn-lbp').count()==1
     # idealna sprawa: 3 gwiazdki i 300 pkt
     pg.evaluate("hsNewR();hsStart()")
-    for i in (1,2,3,4,5,6,7):pg.evaluate("hsOpen(%d);hsPick(hsIt(%d).a)"%(i,i))
-    pg.evaluate("hsBoard();hsAsk()")
-    for i in range(6):pg.evaluate("hsAskTap(%d)"%i)
-    pg.evaluate("HS.v='board';hsSus(0);hsSel(2);hsSel(3);hsAccuse()");pg.wait_for_timeout(200)
+    for i in range(1,12):pg.evaluate("hsOpen(%d);hsPick(hsIt(%d).a)"%(i,i))
+    pg.evaluate("hsBoard()")
+    for n in (6,9,8):pg.evaluate("hsAsk();for(let i=0;i<%d;i++)hsAskTap(i);HS.v='board'"%n)
+    pg.evaluate("renderHeist();hsSus(0);hsSel(2);hsSel(3);hsAccuse()");pg.wait_for_timeout(200)
     res['ideal: 3 gwiazdki, 300 pkt']=pg.evaluate("[HS.stars,HS.pts]")==[3,300]
     res['ideal: brak nowych punktow lokalnie (mock daje 40)']=pg.evaluate("HS.over")==1
     res['klawisze 1-4']=True
